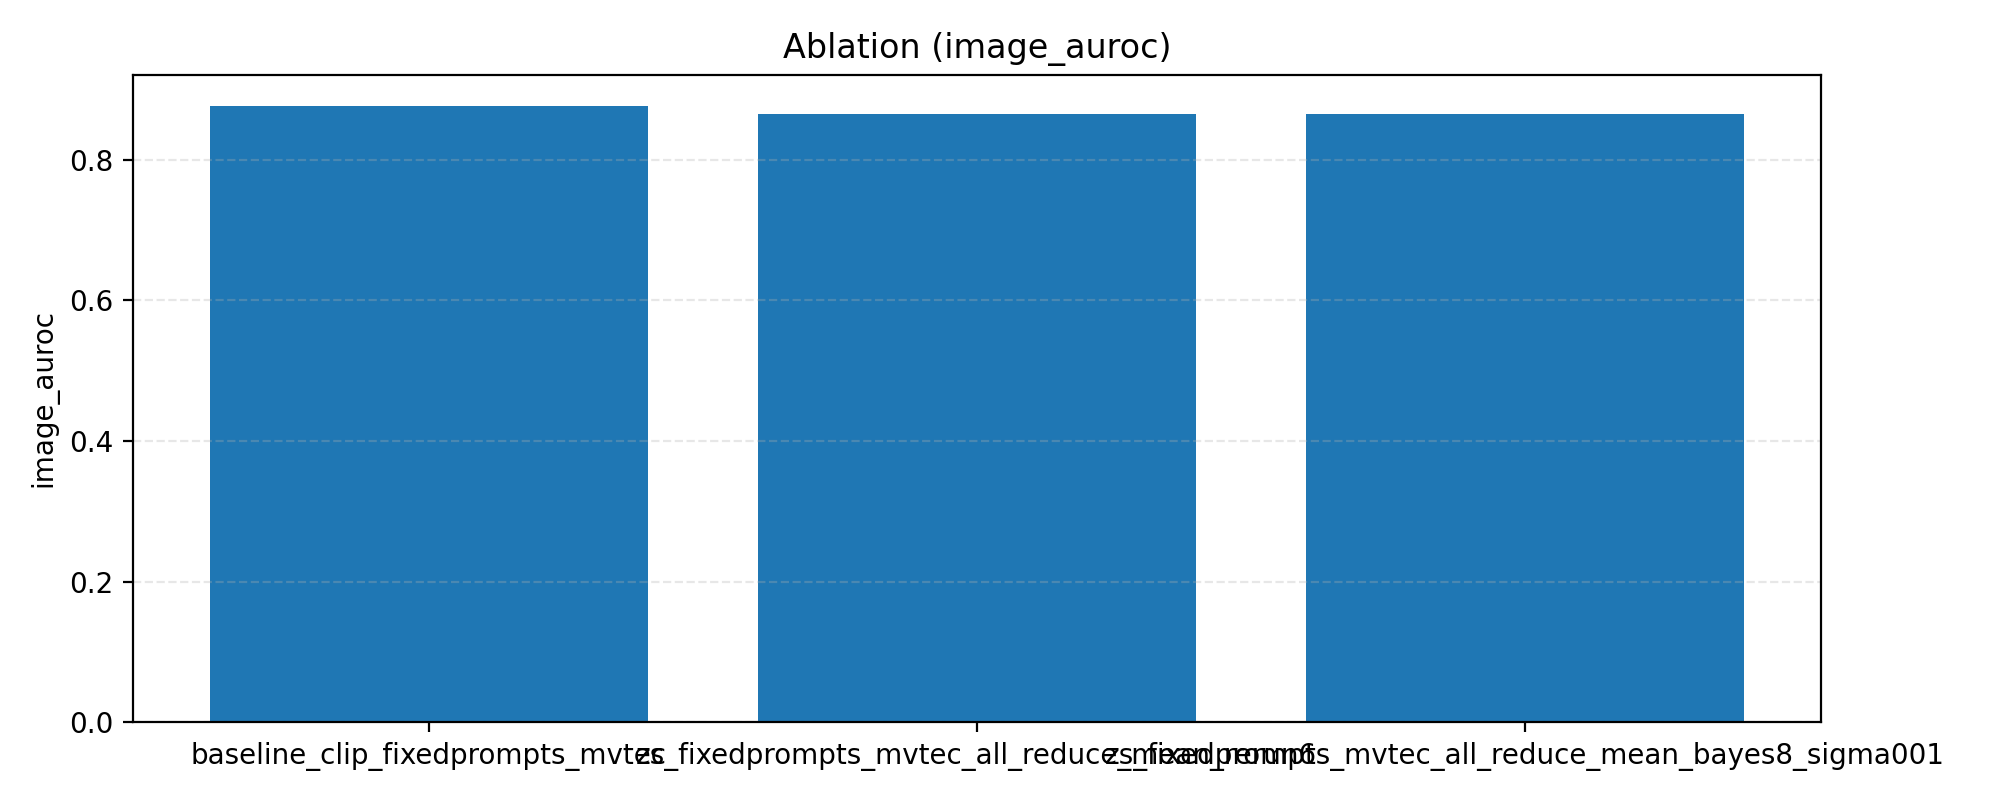
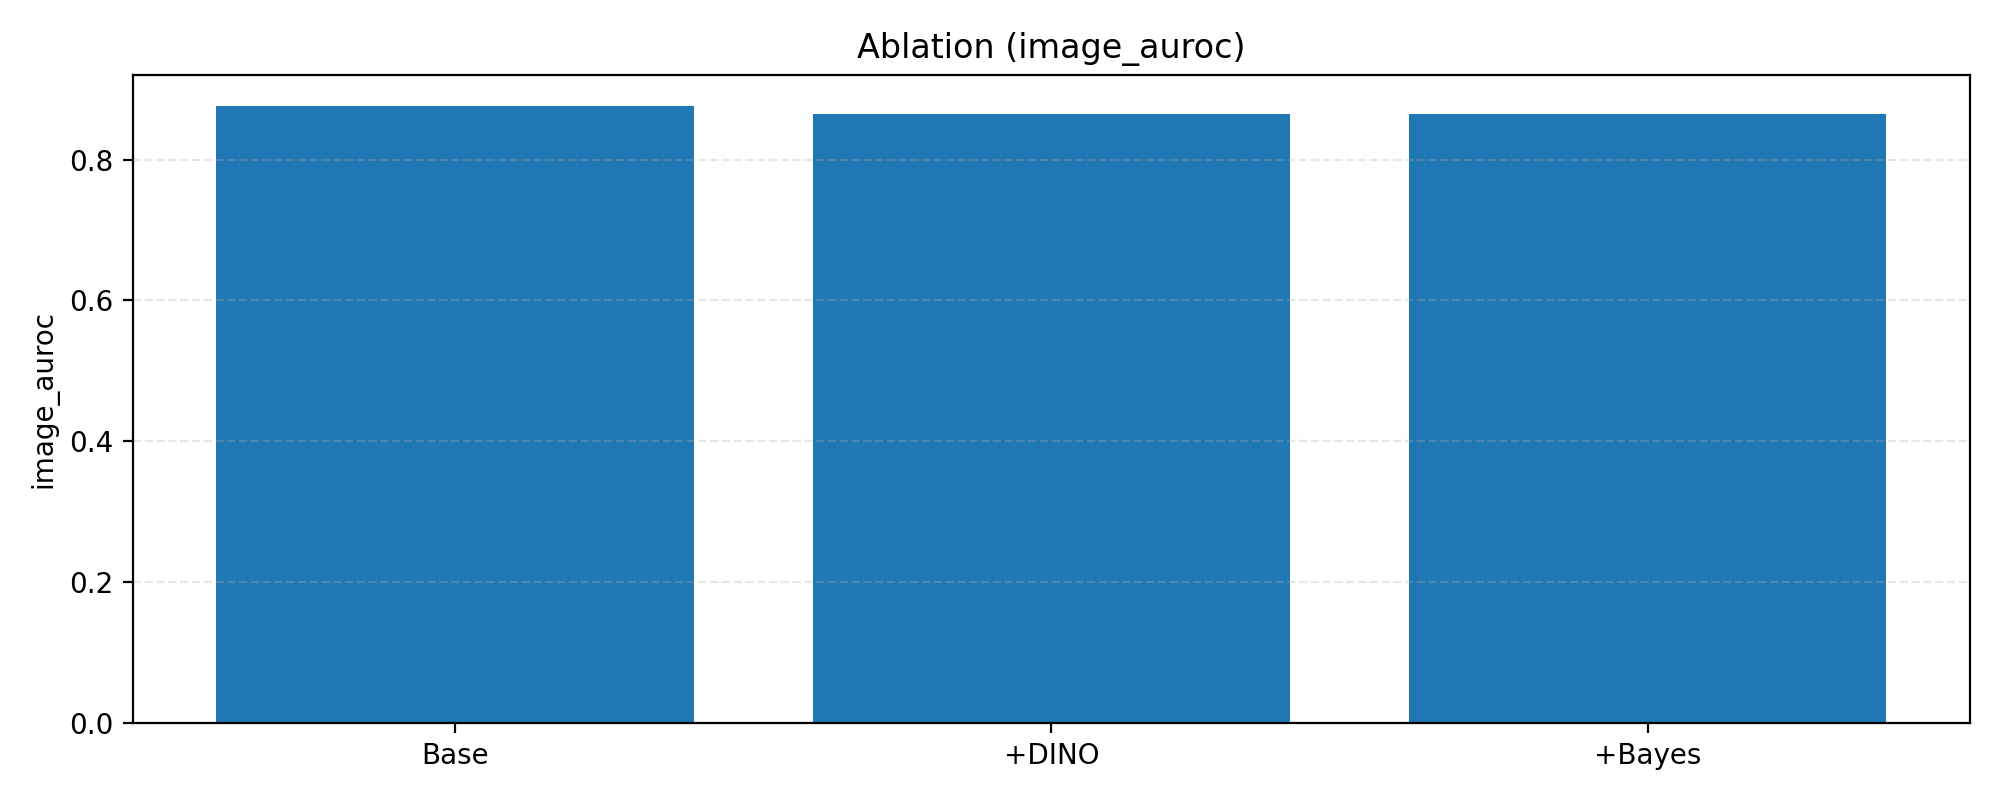
Finish +Attention ablation and export heatmaps

diff --git a/main/analysis/plot_ablation.py b/main/analysis/plot_ablation.py
@@ -35,11 +35,18 @@ def main():
             "baseline_clip_fixedprompts_mvtec",
             "zs_fixedprompts_mvtec_all_reduce_mean_rerun6",
             "zs_fixedprompts_mvtec_all_reduce_mean_bayes8_sigma001",
-            "baseline_clip_fixedprompts_mvtec_attention",
+            "ablation_mvtec_bayes_frm_scalar_a01",
         ],
         help="model_name order for plotting",
     )
     args = ap.parse_args()
+
+    pretty = {
+        "baseline_clip_fixedprompts_mvtec": "Base",
+        "zs_fixedprompts_mvtec_all_reduce_mean_rerun6": "+DINO",
+        "zs_fixedprompts_mvtec_all_reduce_mean_bayes8_sigma001": "+Bayes",
+        "ablation_mvtec_bayes_frm_scalar_a01": "+Attention",
+    }
 
     rows = read_csv(args.summary_csv)
     grouped = defaultdict(list)
@@ -57,7 +64,7 @@ def main():
     for m in args.order:
         if m not in grouped:
             continue
-        labels.append(m)
+        labels.append(pretty.get(m, m))
         values.append(sum(grouped[m]) / len(grouped[m]))
 
     if not values:

diff --git a/main/deliverables/PROGRESS.md b/main/deliverables/PROGRESS.md
@@ -32,11 +32,15 @@ Backups live in `main/deliverables/ours_best_zs_fixedprompts_dino/`.
 - Ablation plots (current): `main/analysis/ablation_pixel_auroc_mvtec.png`, `main/analysis/ablation_image_auroc_mvtec.png`
 
 ## In progress
-- “+Attention” ablation on top of Best/Bayes configuration (FRM scalar).
-- Heatmap visualizations for a few representative classes (Bottle/Cable/Hazelnut).
+- Heatmap visualizations for a few representative classes (Hazelnut pending).
+
+## Newly completed (since last update)
+- “+Attention” ablation (FRM scalar) on MVTec (mean metrics are essentially unchanged vs +Bayes).
+- Heatmap samples exported for report:
+  - `main/deliverables/heatmaps/mvtec/bottle/`
+  - `main/deliverables/heatmaps/mvtec/cable/`
 
 ## Next actions
 - Finish “+Attention” eval and regenerate ablation plots with 4 bars.
 - Generate 6–12 representative `vis_img` pairs (`*_orig.png`, `*_pred.png`) for report.
 - Optional (if required by PM): run **trained-on-MVTec** and **trained-on-VisA** checkpoints for “trained_on_A → test_on_B” cross-domain tables.
-
